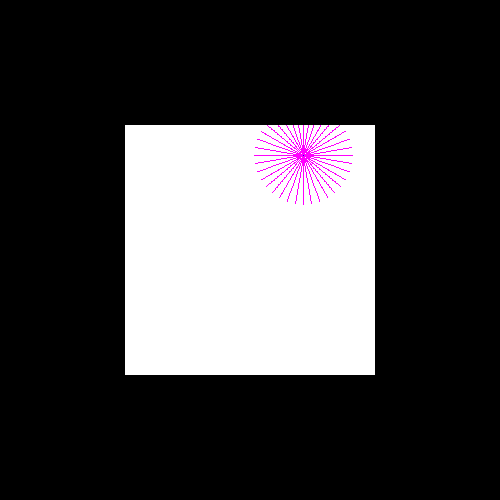
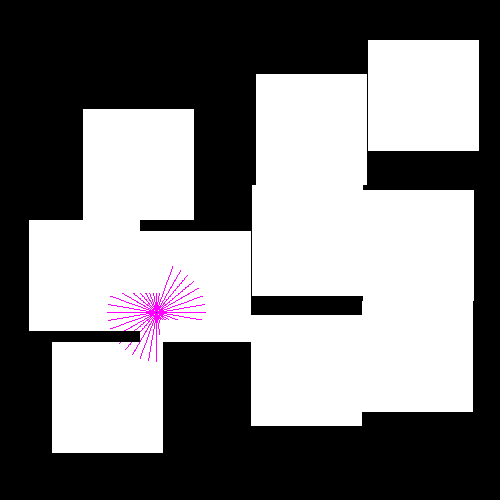
gen 10 random squares for world

diff --git a/AREgym.py b/AREgym.py
@@ -26,13 +26,13 @@ import utils
 '''
 
 class AREEnv(gym.Env):
-    def __init__(self, grid, step_distance, save_map=False):
-        self.observation_size = 72
+    def __init__(self, grid, step_distance, save_map=False, laser_scan_max_dist=50, \
+                 num_laser_scan=36, heuristic_dist=80, termination_threshhold=0.9):
         self.world_size = grid # how large to generate the square map, in pixels
         self.step_distance = step_distance # how far the robot moves at each time step, in pixels
 
-        self.world_generator = World.WorldGenerator()
-        self.world = self.world_generator.new_world(self.world_size)
+        self.world_generator = World.WorldGenerator(self.world_size, self.world_size)
+        self.world = self.world_generator.new_world()
         
         # initialize all unexplored areas as -1
         self.global_map = np.zeros((2 * grid, 2 * grid)) - 1
@@ -42,26 +42,28 @@ class AREEnv(gym.Env):
         self.y = grid 
 
         # initialize lidar
-        self.laser_scan_max_dist = 50 # in pixels
-        self.num_laser_scan = int(self.observation_size // 2)
-        self.num_laser_scan = 36
+        self.laser_scan_max_dist = laser_scan_max_dist # in pixels
+        self.num_laser_scan = num_laser_scan
         self.laserscan = np.zeros(self.num_laser_scan)
         # self.laser_scan_heading = np.array([0])
-        self.laser_scan_heading = np.array([((0.5 - (i / self.num_laser_scan)) * math.pi * 2) for i in range(self.num_laser_scan)])
+        self.laser_scan_heading = \
+            np.array([((0.5 - (i / self.num_laser_scan)) * math.pi * 2) \
+                      for i in range(self.num_laser_scan)])
 
 
         # initialize heuristics and heuristics params
         self.heuristic = np.zeros((self.num_laser_scan))
-        self.heuristic_dist = self.step_distance * 2 # magic number 
+        self.heuristic_dist = heuristic_dist # self.step_distance * 2 magic number 
 
         # episode termination criteria param
-        self.termination_threshhold = 0.9 ## also magic number
+        self.termination_threshhold = termination_threshhold ## also magic number
 
         self.save_map = save_map
         if self.save_map:
             '''
             global: show global map
-            world: show world map, not including robot, can use used for verifying world generation
+            world: show world map, not including robot, can use used for 
+            verifying world generation
             default: global map with robot and laserscan
 
             [Blue Green Red]
@@ -96,7 +98,7 @@ class AREEnv(gym.Env):
             self.scan = [] # store values scanned pixels for rendering
 
     def reset(self):
-        self.world = self.world_generator.new_world(self.world_size)
+        self.world = self.world_generator.new_world()
         self.x = self.world_size
         self.y = self.world_size
 
@@ -154,7 +156,9 @@ class AREEnv(gym.Env):
 
                 dx = int(math.cos(heading) * distance)
                 dy = int(math.sin(heading) * distance)
-                if not utils.out_of_bounds(self.world.x + dx, self.world.y + dy, self.world.size):
+                if not utils.out_of_bounds(self.world.x + dx, \
+                                           self.world.y + dy, \
+                                            self.world.size):
                     break
 
                 if self.world.world[self.world.x + dx, self.world.y + dy] == 0:
@@ -208,9 +212,21 @@ class AREEnv(gym.Env):
             for j in range(self.world_size * 2):
                 if (self.map_img[i,j] == np.array([1 ,0, 0])).all():
                     continue
-                self.map_img[i,j,0] = 0 if self.global_map[i,j] == 0 else 1 if self.global_map[i,j] == 1 else 0.5
-                self.map_img[i,j,1] = 0 if self.global_map[i,j] == 0 else 1 if self.global_map[i,j] == 1 else 0.5
-                self.map_img[i,j,2] = 0 if self.global_map[i,j] == 0 else 1 if self.global_map[i,j] == 1 else 0.5
+                self.map_img[i,j,0] = 0 \
+                    if self.global_map[i,j] == 0 \
+                    else 1 \
+                        if self.global_map[i,j] == 1 \
+                        else 0.5
+                self.map_img[i,j,1] = 0 \
+                    if self.global_map[i,j] == 0 \
+                    else 1 \
+                        if self.global_map[i,j] == 1 \
+                        else 0.5
+                self.map_img[i,j,2] = 0 \
+                    if self.global_map[i,j] == 0 \
+                    else 1 \
+                        if self.global_map[i,j] == 1 \
+                        else 0.5
         image1 = cv2.rotate(self.map_img, cv2.ROTATE_180)
         image1 = (image1 * 255).astype(np.uint8)
         cv2.imwrite(image_path + "/global_map.png", image1)
@@ -221,7 +237,8 @@ class AREEnv(gym.Env):
 
         self.current_img[self.world.x, self.world.y, 2] = 0
         for i in range(len(self.scan)):
-            self.current_img[self.world.x + self.scan[i][0], self.world.y + self.scan[i][1], 1] = 0
+            self.current_img[self.world.x + self.scan[i][0], \
+                             self.world.y + self.scan[i][1], 1] = 0
         image3 = cv2.rotate(self.current_img, cv2.ROTATE_180)
         image3 = (image3 * 255).astype(np.uint8)
         cv2.imwrite(image_path + "/current_state.png", image3)

diff --git a/World.py b/World.py
@@ -51,16 +51,39 @@ class World:
         return self.explored_area.sum() / self.free_area
 
 class WorldGenerator:
-    def __init__(self):
-        return
+    def __init__(self, size_x, size_y, fill = 0.5):
+        self.size_x = size_x # x size of world
+        self.size_y = size_y # y size of world
+        self.fill = fill # percentage [0,1] of world that is filled with room
 
-    def new_world(self, grid):
+    def new_world(self):
         '''
         Generate random world and randomly place robot in world
         '''
-        world = np.zeros((grid,grid))
+        world = np.zeros((self.size_x, self.size_y))
 
-        for i in range(125,375):
-            world[i][125:375] = 1
+        room_area = self.fill * self.size_x * self.size_y / 10
+        room_size = int(math.sqrt(room_area))
+        
+        for i in range(10):
+            while True:
+                # choose a random point that can generate a room of room_area
+                start = np.random.randint(1,[self.size_x-room_size, self.size_y-room_size])
+                if i == 0 or self.canGenRoom(world,room_size,start[0],start[1]):
+                    self.floodRoom(world,room_size,start[0],start[1])
+                    break
+        while True:
+            robot_start = np.random.randint(0,[self.size_x, self.size_y])
+            if world[robot_start[0],robot_start[1]] == 1:
+                break
+        return World(world, robot_start[0], robot_start[1])
+    
+    def canGenRoom(self, world, room_size, room_x, room_y):
+        return not world[room_x:room_x+room_size,room_y:room_y+room_size].any() and (\
+            (room_y>0 and world[room_x:room_x+room_size,room_y-1].any()) or \
+            (room_y+room_size<self.size_y-1 and world[room_x:room_x+room_size,room_y+room_size+1].any()) or \
+            (room_x>0 and world[room_x-1,room_y:room_y+room_size].any()) or \
+            (room_x+room_size<self.size_x-1 and world[room_x+room_size+1,room_y:room_y+room_size].any()))
 
-        return World(world, 250, 250)
+    def floodRoom(self, world, room_size, room_x, room_y):
+        world[room_x:room_x+room_size,room_y:room_y+room_size] = 1
